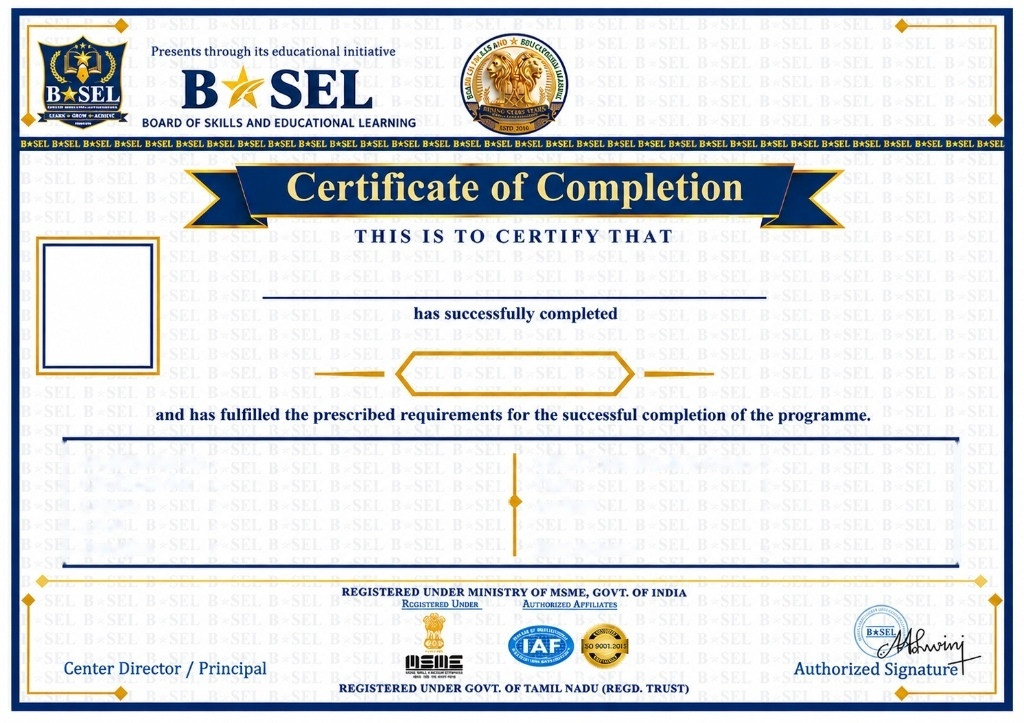
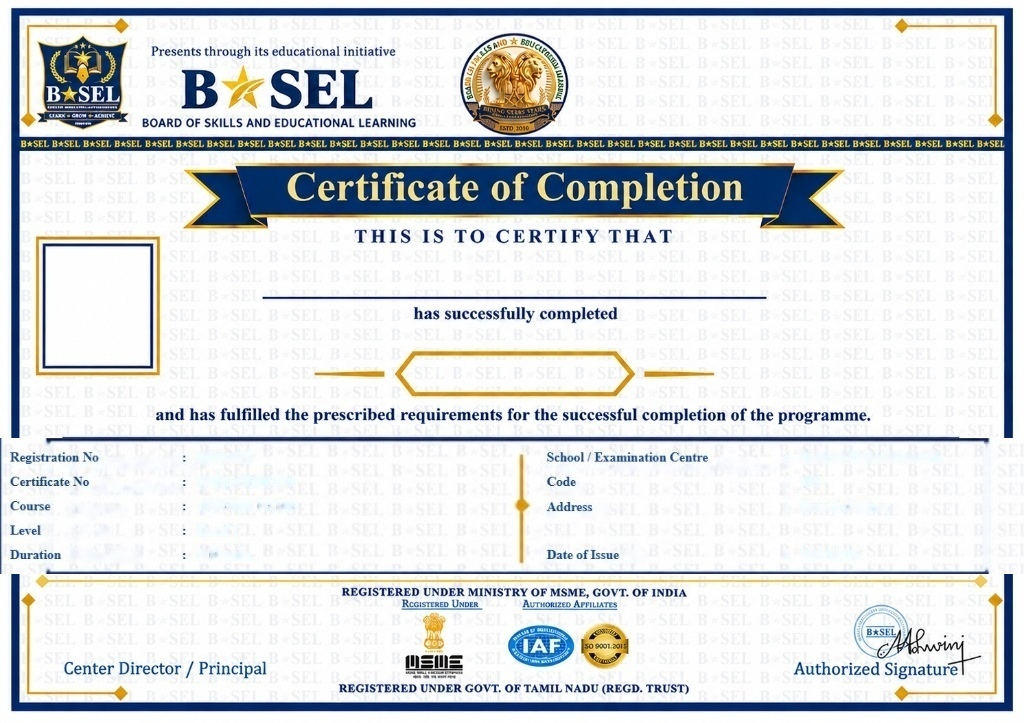
feat(certificate): integrate user-aligned box design into official certificate template and align dynamic values

Changed region(s): [[0.0, 0.6086, 0.9375, 0.7911], [0.9375, 0.6086, 1.0, 0.7911], [0.1562, 0.6086, 0.1875, 0.639]]

diff --git a/src/components/Certificate.jsx b/src/components/Certificate.jsx
@@ -783,103 +783,192 @@ export default function Certificate({
           {/* =========================================================================
               5. DETAILS GRID / TABLE (LEFT & RIGHT COLUMNS)
               Rendered in classic 'Times New Roman' with perfect column-by-column alignment
-              - Labels, colons (:), and dynamic values are all aligned in vertical columns
-              - Fits inside the official template's double-border box
+              Labels & colons (:) are aligned in the official template background.
+              Dynamic values align vertically next to each colon.
               ========================================================================= */}
-          <div
-            className="absolute flex items-center justify-between select-none pointer-events-none"
+          
+          {/* --- LEFT COLUMN VALUES (Colons at x=18.0%, Values start at x=18.8%) --- */}
+          {/* Row 1: Registration No */}
+          <div 
+            className="absolute font-bold text-[#13427a] select-none truncate flex items-center"
             style={{
-              top: '60.6%',
-              left: '1.2%',
-              width: '97.6%',
-              height: '17.7%',
+              top: '63.35%',
+              left: '18.8%',
+              width: '29.5%',
+              maxWidth: '29.5%',
+              transform: 'translateY(-50%)',
               fontFamily: "'Times New Roman', Times, serif",
-              color: '#13427a',
-              fontSize: 'clamp(8.5px, 1.2vw, 12.5px)',
-              lineHeight: 1.2
+              fontSize: 'clamp(9px, 1.25vw, 13px)',
+              letterSpacing: '0.02em',
+              lineHeight: 1
             }}
           >
-            {/* --- LEFT COLUMN (5 Rows) --- */}
-            <div className="w-[48.5%] h-full flex flex-col justify-between py-2.5 pl-4 pr-2">
-              {/* Row 1: Registration No */}
-              <div className="grid grid-cols-[34%_4%_62%] items-center">
-                <span className="font-bold whitespace-nowrap">Registration No</span>
-                <span className="font-bold text-center">:</span>
-                <span className="font-bold truncate pl-1">{registrationNo || 'REG-001'}</span>
-              </div>
+            {registrationNo || 'REG-001'}
+          </div>
 
-              {/* Row 2: Certificate No */}
-              <div className="grid grid-cols-[34%_4%_62%] items-center">
-                <span className="font-bold whitespace-nowrap">Certificate No</span>
-                <span className="font-bold text-center">:</span>
-                <span className="font-bold truncate pl-1">{displayCertNo}</span>
-              </div>
+          {/* Row 2: Certificate No */}
+          <div 
+            className="absolute font-bold text-[#13427a] select-none truncate flex items-center"
+            style={{
+              top: '66.74%',
+              left: '18.8%',
+              width: '29.5%',
+              maxWidth: '29.5%',
+              transform: 'translateY(-50%)',
+              fontFamily: "'Times New Roman', Times, serif",
+              fontSize: 'clamp(9px, 1.25vw, 13px)',
+              letterSpacing: '0.02em',
+              lineHeight: 1
+            }}
+          >
+            {displayCertNo || 'BSEL/CERT/001'}
+          </div>
 
-              {/* Row 3: Course */}
-              <div className="grid grid-cols-[34%_4%_62%] items-center">
-                <span className="font-bold whitespace-nowrap">Course</span>
-                <span className="font-bold text-center">:</span>
-                <span className="font-bold truncate pl-1 uppercase">{displayCourseUpper}</span>
-              </div>
+          {/* Row 3: Course */}
+          <div 
+            className="absolute font-bold text-[#13427a] select-none uppercase flex items-center"
+            style={{
+              top: '70.12%',
+              left: '18.8%',
+              width: '30.0%',
+              maxWidth: '30.0%',
+              transform: 'translateY(-50%)',
+              fontFamily: "'Times New Roman', Times, serif",
+              fontSize: (displayCourseUpper || '').length > 25 ? 'clamp(7.5px, 1.0vw, 10.5px)' : 'clamp(9px, 1.25vw, 13px)',
+              letterSpacing: (displayCourseUpper || '').length > 25 ? '0.005em' : '0.02em',
+              lineHeight: 1
+            }}
+          >
+            <span className="truncate">{displayCourseUpper || 'COURSE NAME'}</span>
+          </div>
 
-              {/* Row 4: Level */}
-              <div className="grid grid-cols-[34%_4%_62%] items-center">
-                <span className="font-bold whitespace-nowrap">Level</span>
-                <span className="font-bold text-center">:</span>
-                <span className="font-bold truncate pl-1 capitalize">{level || 'Level 1'}</span>
-              </div>
+          {/* Row 4: Level */}
+          <div 
+            className="absolute font-bold text-[#13427a] select-none truncate capitalize flex items-center"
+            style={{
+              top: '73.44%',
+              left: '18.8%',
+              width: '29.5%',
+              maxWidth: '29.5%',
+              transform: 'translateY(-50%)',
+              fontFamily: "'Times New Roman', Times, serif",
+              fontSize: 'clamp(9px, 1.25vw, 13px)',
+              letterSpacing: '0.02em',
+              lineHeight: 1
+            }}
+          >
+            {level || 'Level 1'}
+          </div>
 
-              {/* Row 5: Duration */}
-              <div className="grid grid-cols-[34%_4%_62%] items-center">
-                <span className="font-bold whitespace-nowrap">Duration</span>
-                <span className="font-bold text-center">:</span>
-                <span className="font-bold truncate pl-1 capitalize">{duration || '6 Months'}</span>
-              </div>
+          {/* Row 5: Duration */}
+          <div 
+            className="absolute font-bold text-[#13427a] select-none truncate capitalize flex items-center"
+            style={{
+              top: '76.83%',
+              left: '18.8%',
+              width: '29.5%',
+              maxWidth: '29.5%',
+              transform: 'translateY(-50%)',
+              fontFamily: "'Times New Roman', Times, serif",
+              fontSize: 'clamp(9px, 1.25vw, 13px)',
+              letterSpacing: '0.02em',
+              lineHeight: 1
+            }}
+          >
+            {duration || '6 Months'}
+          </div>
+
+          {/* --- RIGHT COLUMN VALUES (Colons at x=76.8%, Values start at x=77.8%) --- */}
+          {/* Row 1: School / Examination Centre */}
+          <div 
+            className="absolute font-bold text-[#13427a] select-none truncate capitalize flex items-center"
+            style={{
+              top: '63.35%',
+              left: '77.8%',
+              width: '20.8%',
+              maxWidth: '20.8%',
+              transform: 'translateY(-50%)',
+              fontFamily: "'Times New Roman', Times, serif",
+              fontSize: 'clamp(8.5px, 1.2vw, 12.5px)',
+              letterSpacing: '0.02em',
+              lineHeight: 1
+            }}
+          >
+            {centreName || 'Tenkasi Regional Branch'}
+          </div>
+
+          {/* Row 2: Code */}
+          <div 
+            className="absolute font-bold text-[#13427a] select-none truncate flex items-center"
+            style={{
+              top: '66.74%',
+              left: '77.8%',
+              width: '20.8%',
+              maxWidth: '20.8%',
+              transform: 'translateY(-50%)',
+              fontFamily: "'Times New Roman', Times, serif",
+              fontSize: 'clamp(9px, 1.25vw, 13px)',
+              letterSpacing: '0.02em',
+              lineHeight: 1
+            }}
+          >
+            {centreCode || '101'}
+          </div>
+
+          {/* Row 3: Address Line 1 */}
+          <div 
+            className="absolute font-bold text-[#13427a] select-none truncate capitalize flex items-center"
+            style={{
+              top: '70.12%',
+              left: '77.8%',
+              width: '20.8%',
+              maxWidth: '20.8%',
+              transform: 'translateY(-50%)',
+              fontFamily: "'Times New Roman', Times, serif",
+              fontSize: 'clamp(8.5px, 1.2vw, 12.5px)',
+              letterSpacing: '0.02em',
+              lineHeight: 1
+            }}
+          >
+            {addressLine1 || 'Branch Address'}
+          </div>
+
+          {/* Row 4: Address Line 2 (graceful wrapping into blank Row 4 area on the right) */}
+          {addressLine2 && (
+            <div 
+              className="absolute font-bold text-[#13427a] select-none truncate capitalize flex items-center"
+              style={{
+                top: '73.44%',
+                left: '77.8%',
+                width: '20.8%',
+                maxWidth: '20.8%',
+                transform: 'translateY(-50%)',
+                fontFamily: "'Times New Roman', Times, serif",
+                fontSize: 'clamp(8.5px, 1.2vw, 12.5px)',
+                letterSpacing: '0.02em',
+                lineHeight: 1
+              }}
+            >
+              {addressLine2}
             </div>
+          )}
 
-            {/* --- RIGHT COLUMN (5 Rows) --- */}
-            <div className="w-[48.5%] h-full flex flex-col justify-between py-2.5 pl-3 pr-4">
-              {/* Row 1: School / Examination Centre */}
-              <div className="grid grid-cols-[48%_4%_48%] items-center">
-                <span className="font-bold whitespace-nowrap">School / Examination Centre</span>
-                <span className="font-bold text-center">:</span>
-                <span className="font-bold truncate pl-1 capitalize">{centreName || 'Tenkasi Regional Branch'}</span>
-              </div>
-
-              {/* Row 2: Code */}
-              <div className="grid grid-cols-[48%_4%_48%] items-center">
-                <span className="font-bold whitespace-nowrap">Code</span>
-                <span className="font-bold text-center">:</span>
-                <span className="font-bold truncate pl-1">{centreCode || '101'}</span>
-              </div>
-
-              {/* Row 3: Address */}
-              <div className="grid grid-cols-[48%_4%_48%] items-center">
-                <span className="font-bold whitespace-nowrap">Address</span>
-                <span className="font-bold text-center">:</span>
-                <span className="font-bold truncate pl-1 capitalize">{addressLine1 || 'Branch Address'}</span>
-              </div>
-
-              {/* Row 4: Address Line 2 (or blank) */}
-              <div className="grid grid-cols-[48%_4%_48%] items-center min-h-[1em]">
-                {addressLine2 ? (
-                  <>
-                    <span></span>
-                    <span></span>
-                    <span className="font-bold truncate pl-1 capitalize">{addressLine2}</span>
-                  </>
-                ) : (
-                  <span></span>
-                )}
-              </div>
-
-              {/* Row 5: Date of Issue */}
-              <div className="grid grid-cols-[48%_4%_48%] items-center">
-                <span className="font-bold whitespace-nowrap">Date of Issue</span>
-                <span className="font-bold text-center">:</span>
-                <span className="font-bold truncate pl-1">{issueDate || '12/11/2026'}</span>
-              </div>
-            </div>
+          {/* Row 5: Date of Issue */}
+          <div 
+            className="absolute font-bold text-[#13427a] select-none truncate flex items-center"
+            style={{
+              top: '76.83%',
+              left: '77.8%',
+              width: '20.8%',
+              maxWidth: '20.8%',
+              transform: 'translateY(-50%)',
+              fontFamily: "'Times New Roman', Times, serif",
+              fontSize: 'clamp(9px, 1.25vw, 13px)',
+              letterSpacing: '0.02em',
+              lineHeight: 1
+            }}
+          >
+            {issueDate || '12/11/2026'}
           </div>
 
           {/* 6. CENTER DIRECTOR / PRINCIPAL SIGNATURE (Centered directly above "Center Director / Principal") */}
